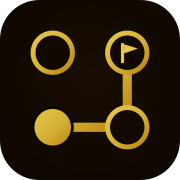
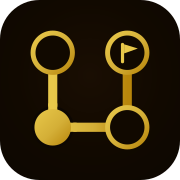
Refine GoldRoad identity and mode badges

Changed region(s): [[0.25, 0.3889, 0.3333, 0.6111], [0.6667, 0.4167, 0.75, 0.5], [0.3889, 0.6667, 0.4167, 0.75]]

diff --git a/app/components/GameBoardHeader.vue b/app/components/GameBoardHeader.vue
@@ -87,10 +87,7 @@ function statusLabel(solved: boolean, medal: Medal | null): string {
         <span>{{ UI_COPY.boardHeader.classic }}</span>
         <span
           class="mode-status"
-          :class="[
-            { 'mode-status--solved': classicSolved },
-            classicMedal ? `mode-status--${classicMedal}` : null,
-          ]"
+          :class="{ 'mode-status--solved': classicSolved }"
         >
           <svg v-if="classicSolved" viewBox="0 0 16 16" aria-hidden="true">
             <path d="m3.5 8.2 2.8 2.8 6.2-6.2" />
@@ -123,10 +120,7 @@ function statusLabel(solved: boolean, medal: Medal | null): string {
         <span>{{ UI_COPY.boardHeader.expedition }}</span>
         <span
           class="mode-status"
-          :class="[
-            { 'mode-status--solved': expeditionSolved },
-            expeditionMedal ? `mode-status--${expeditionMedal}` : null,
-          ]"
+          :class="{ 'mode-status--solved': expeditionSolved }"
         >
           <svg v-if="expeditionSolved" viewBox="0 0 16 16" aria-hidden="true">
             <path d="m3.5 8.2 2.8 2.8 6.2-6.2" />
@@ -213,9 +207,9 @@ function statusLabel(solved: boolean, medal: Medal | null): string {
 
 .mode-status {
   position: relative;
-  width: 1.5rem;
-  height: 1.5rem;
-  flex: 0 0 1.5rem;
+  width: 1.25rem;
+  height: 1.25rem;
+  flex: 0 0 1.25rem;
   display: inline-grid;
   place-items: center;
   border-radius: var(--radius-circle);
@@ -224,8 +218,8 @@ function statusLabel(solved: boolean, medal: Medal | null): string {
 }
 
 .mode-status svg {
-  width: 1rem;
-  height: 1rem;
+  width: 0.78rem;
+  height: 0.78rem;
   fill: none;
   stroke: currentColor;
   stroke-width: 2.3;
@@ -234,8 +228,8 @@ function statusLabel(solved: boolean, medal: Medal | null): string {
 }
 
 .mode-status-dot {
-  width: 0.3rem;
-  height: 0.3rem;
+  width: 0.25rem;
+  height: 0.25rem;
   border-radius: var(--radius-circle);
   background: currentColor;
   opacity: 0.55;
@@ -245,17 +239,6 @@ function statusLabel(solved: boolean, medal: Medal | null): string {
   color: var(--color-text-on-gold);
   background: var(--color-gold);
   border-color: var(--color-gold-bright);
-}
-
-.mode-status--silver {
-  background: var(--color-medal-silver-muted);
-  border-color: var(--color-medal-silver-bright);
-}
-
-.mode-status--bronze {
-  background: var(--color-medal-bronze-bright);
-  border-color: var(--color-medal-bronze-bright);
-  color: var(--color-text-on-bronze);
 }
 
 .mode-status-label {

diff --git a/IMPLEMENTATION_PLAN.md b/IMPLEMENTATION_PLAN.md
@@ -492,7 +492,7 @@ Recommended treatment:
   - the manifest passes a Lighthouse PWA installability check
 - Dependencies: none
 - Completion notes:
-  - new v2 icon art designed as `public/icons/icon-master.svg` / social card as `public/icons/og-image.svg`, rasterized via `scripts/generate-icons.ts` (`sharp`, devDependency) into 192/512 "any" icons, a proper full-bleed maskable 512 variant, a 180px apple-touch-icon, a refreshed favicon, and a 1200x630 OG image; the mark is now a four-coin 2x2 puzzle with one deliberately unconnected option, and the full OG composition is centered on its canvas
+  - new v2 icon art designed as `public/icons/icon-master.svg` / social card as `public/icons/og-image.svg`, rasterized via `scripts/generate-icons.ts` (`sharp`, devDependency) into 192/512 "any" icons, a proper full-bleed maskable 512 variant, a 180px apple-touch-icon, a refreshed favicon, and a 1200x630 OG image; the mark is now a four-coin 2x2 puzzle with two connected choices from Start, and the full OG composition is centered on its canvas
   - `public/manifest.webmanifest` + `nuxt.config.ts` `app.head` wired: manifest link, apple-touch-icon, favicon, theme-color, and full OG/Twitter card meta
   - offline shell: explicitly decided **out of scope for v2 launch**, recorded in `ARCHITECTURE.md` §1.5 rather than left silently missing
   - verified live: manifest and OG image both serve 200, `<head>` carries all the expected tags; a real Lighthouse audit is still pending (no browser in the build sandbox), but the manifest satisfies every field Lighthouse's installability check requires
@@ -747,7 +747,7 @@ The v2 UI is visually good; these decisions are about behavior and information r
 - **No cyan element accents anywhere.** An audit confirmed the working palette: golds/bronze/silver for the game, toll rust + bonus honey for the road grammar, red for hint highlights, blue for focus, green for success feedback. Expedition identity comes from its background tint only. ~~Secondary emphasis (like the Expedition streak line) uses silver~~ **superseded below: silver read as too strong an accent against the gold palette; the Expedition streak line uses a muted gold tone instead.** The unused cyan accent tokens go in RP1-13.
 - **A solved puzzle always presents as solved at rest.** Retrying mid-replay (or right after solving) resets the board but returns to the solved footer (ticker + Share + next action) — never the pre-run instruction, which made solved puzzles feel unsolved. Moving off the start tile is what begins an untracked replay.
 - **The next-road ticker shows in both solved footer states** (solved Classic and day-complete) and on the stats page's solved today card.
-- **App icon is a mini road of coin tiles.** The launch icon's diamond tile matched nothing in the game; the new mark is a four-tile 2x2 puzzle — bright filled start, open corner, flagged finish, and one deliberately unconnected open tile — on the dark gold gradient, mirrored in the centered OG image.
+- **App icon is a mini road of coin tiles.** The launch icon's diamond tile matched nothing in the game; the new mark is a four-tile 2x2 puzzle — bright filled start with two connected choices, open corner, and flagged finish — on the dark gold gradient, mirrored in the centered OG image.
 - **The Classic streak is THE daily streak, presented with a flame.** Since Classic is the day's baseline challenge (Expedition only unlocks behind it), "consecutive days with Classic solved" is what a player means by "my streak." It lives in an always-visible flame card under the medals (Reddit-style: lit with a glow when alive, dimmed with "Solve today's road to light the flame" at zero), with the Expedition streak as a smaller accent line in the same card. Streak rows no longer appear in the mode-scoped Your stats record. Streak *calculation* stays per-mode and unchanged.
 
 ### Clarified product decisions — July 2026 feedback round 2 (annotation review)
@@ -759,7 +759,7 @@ The v2 UI is visually good; these decisions are about behavior and information r
 - **A solved puzzle always presents as solved at rest, confirmed again this round** (see above) — this round additionally confirmed the next-road ticker now appears in the solved-Classic footer, the day-complete footer, and the stats page's solved today card, so "when does the next road land" is answered everywhere a solved state is shown.
 - **The update notification dot appears at both levels.** The hamburger icon's dot told players *something* changed but not *where to look*; the About entry inside the open menu now carries its own dot too, so the destination is unambiguous.
 - **About leads with Updates, in its own visually distinct section** — a timeline treatment (dot + connecting line + a gold "Latest" badge on the newest entry) rather than another plain card, so what changed is the first thing a returning player sees, ahead of the evergreen About/Privacy content.
-- **The app icon's road reads as four coin tiles in a 2x2 puzzle**, matching the in-game tile geometry (filled start, open tiles, flagged finish) rather than an abstracted diamond mark. The unconnected fourth tile keeps the mark puzzle-like.
+- **The app icon's road reads as four coin tiles in a 2x2 puzzle**, matching the in-game tile geometry (filled start, connected choices, open tiles, flagged finish) rather than an abstracted diamond mark.
 
 ### Clarified product decisions — July 2026 archive and replay review
 
@@ -1395,7 +1395,7 @@ The v2 UI is visually good; these decisions are about behavior and information r
   - the day-complete sheet uses the medal/check as the result indicator, with mode and `tries · time` beside it; its copy is `Both roads conquered.` / `See you tomorrow.`, and both countdown surfaces omit `00:00 UTC`
   - regression verification: `pnpm typecheck`, 139 unit tests, production build, and all 12 desktop/mobile Playwright release-surface tests pass; the browser suite includes the exact expired-road button transition plus Classic-only, combined-day, and defensive Expedition-only Stats states
   - Stats follow-up: today's share card is cross-mode and grows from Classic-only sharing to combined-day sharing; Streak, Yesterday, and Your stats each own an in-card mode switch so comparisons do not require a scroll back to the top
-  - identity follow-up: all generated app icons now use a four-coin 2x2 puzzle mark with one disconnected tile, and the OG artwork group is centered across the 1200x630 canvas
+  - identity follow-up: all generated app icons now use a four-coin 2x2 puzzle mark with two connected choices from Start, and the OG artwork group is centered across the 1200x630 canvas
   - review hardening: authoritative road application compares the full `gameNo` + `puzzleType` identity before stopping an active timer; audio lifecycle recovery clears prior gesture eligibility so non-gesture playback can only queue until a fresh gesture; single-result Stats copy derives from its actual mode, and obsolete/empty Stats layout nodes were removed
 
 ### Recommended implementation order

diff --git a/DESIGN_SYSTEM.md b/DESIGN_SYSTEM.md
@@ -178,6 +178,7 @@ On mobile, the app header keeps Sound and Menu visible. Stats and How to Play mo
 - Focus states use `--color-focus` everywhere — component focus styles and the global `:focus-visible` ridge outline
 - Reduced motion support via `@media (prefers-reduced-motion: reduce)`
 - Color is never the only signal: start/finish are distinguished by icon alone (footprints/flag — they share the same gold badge coloring), toll/bonus use distinct neutral-gold rail patterns (double dashed/double solid), medals pair color with counts and labels
+- Board-header mode badges use one compact gold completion check regardless of medal tier; medal color belongs to result and celebration surfaces, while the badge's accessible label still announces the earned tier.
 - Proper contrast ratios maintained
 
 ## Usage in Components
